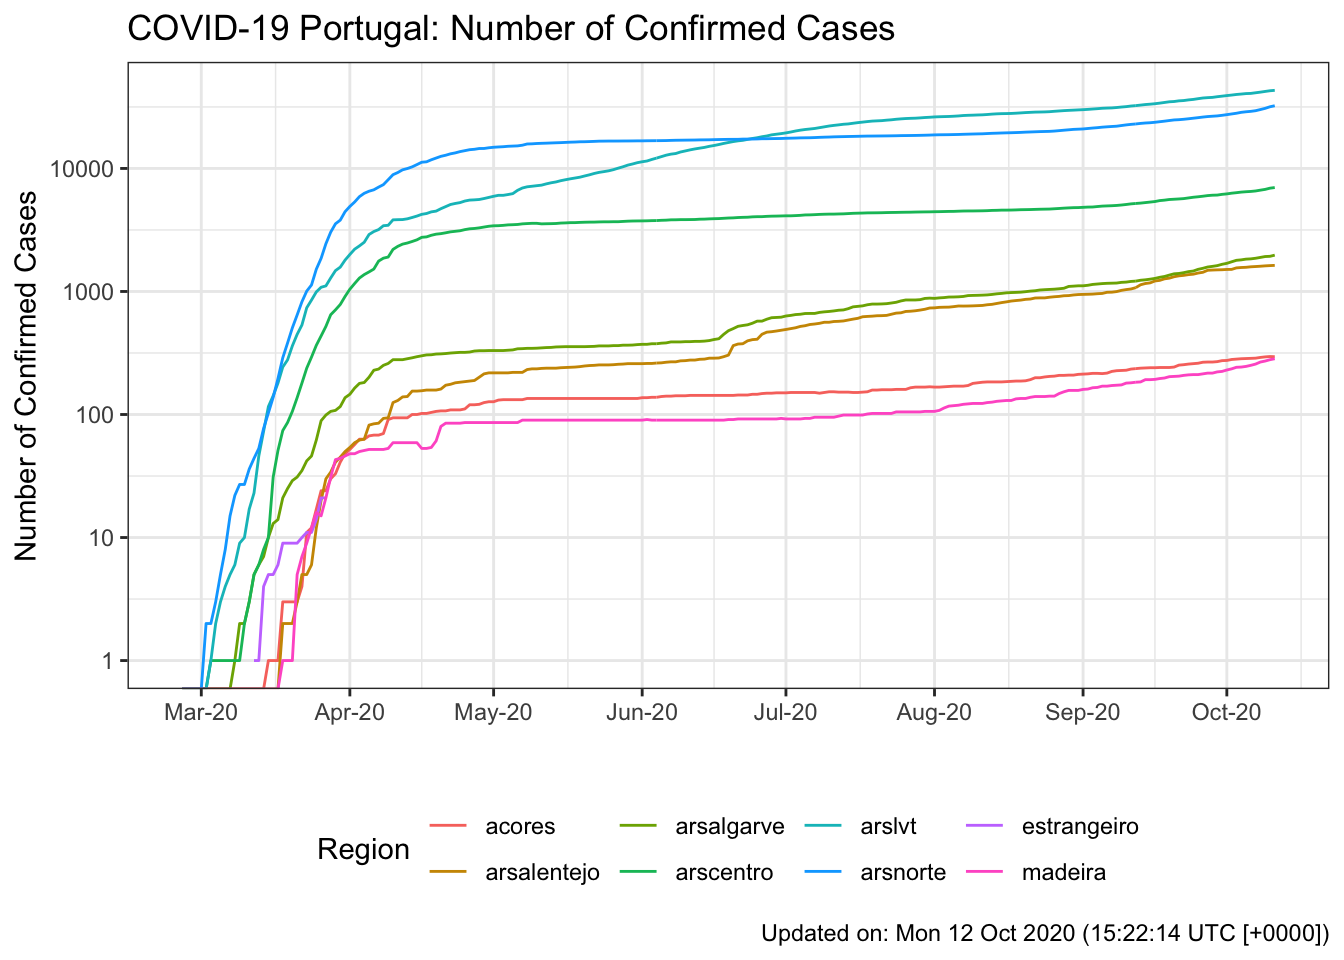
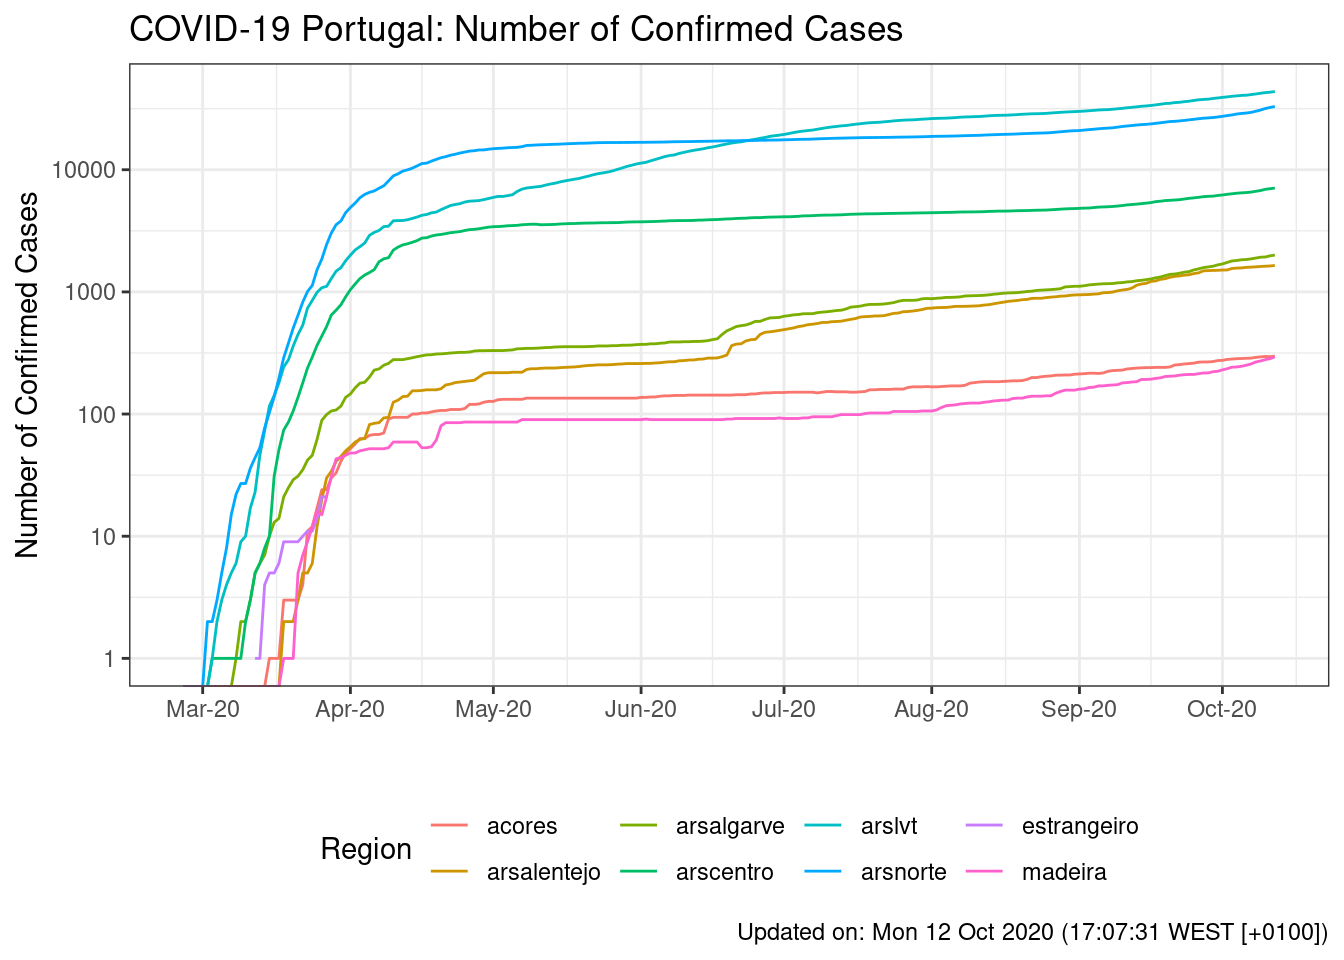
Manual update due to delay in data release

diff --git a/README.md b/README.md
@@ -4,9 +4,9 @@ README](https://github.com/CEAUL/Dados_COVID-19_PT/workflows/Render%20README/bad
 
 ## Daily Portuguese COVID-19 Data
 
-**Last updated: Mon 12 Oct 2020 (15:22:11 UTC \[+0000\])**
+**Last updated: Mon 12 Oct 2020 (17:07:30 WEST \[+0100\])**
 
-  - Data available from **26 Feb 2020** until **11 Oct 2020** (229
+  - Data available from **26 Feb 2020** until **12 Oct 2020** (230
     days).
 
 ### Download User Friendly Version
@@ -47,7 +47,6 @@ The original data were downloaded from an API provide by VOST
 
 |            Date | Cases\_7\_Day\_Mean |         Cases |        Active |    Recovered |     Deaths |
 | --------------: | ------------------: | ------------: | ------------: | -----------: | ---------: |
-| Fri 02 Oct 2020 |               747.0 |  77284 (+888) |  25942 (+460) | 49359 (+422) |  1983 (+6) |
 | Sat 03 Oct 2020 |               758.3 |  78247 (+963) |  26407 (+465) | 49845 (+486) | 1995 (+12) |
 | Sun 04 Oct 2020 |               792.4 |  79151 (+904) |  26939 (+532) | 50207 (+362) | 2005 (+10) |
 | Mon 05 Oct 2020 |               836.6 |  79885 (+734) |  27413 (+474) | 50454 (+247) | 2018 (+13) |
@@ -57,6 +56,7 @@ The original data were downloaded from an API provide by VOST
 | Fri 09 Oct 2020 |               949.1 | 83928 (+1394) |  29702 (+735) | 52164 (+647) | 2062 (+12) |
 | Sat 10 Oct 2020 |              1046.7 | 85574 (+1646) | 30704 (+1002) | 52803 (+639) |  2067 (+5) |
 | Sun 11 Oct 2020 |              1073.3 | 86664 (+1090) |  31397 (+693) | 53187 (+384) | 2080 (+13) |
+| Mon 12 Oct 2020 |              1146.9 | 87913 (+1249) |  32321 (+924) | 53498 (+311) | 2094 (+14) |
 
 Change from previous day in brackets.
 
@@ -81,19 +81,19 @@ CVPT <- fread(here("data", "covid19pt_DSSG_Long.csv"))
 # Looking at the data:
 tail(CVPT)
 ##          data   origVars   origType other symptoms sex ageGrpLower ageGrpUpper
-## 1: 2020-10-06 vigilancia vigilancia                All                        
-## 2: 2020-10-07 vigilancia vigilancia                All                        
-## 3: 2020-10-08 vigilancia vigilancia                All                        
-## 4: 2020-10-09 vigilancia vigilancia                All                        
-## 5: 2020-10-10 vigilancia vigilancia                All                        
-## 6: 2020-10-11 vigilancia vigilancia                All                        
+## 1: 2020-10-07 vigilancia vigilancia                All                        
+## 2: 2020-10-08 vigilancia vigilancia                All                        
+## 3: 2020-10-09 vigilancia vigilancia                All                        
+## 4: 2020-10-10 vigilancia vigilancia                All                        
+## 5: 2020-10-11 vigilancia vigilancia                All                        
+## 6: 2020-10-12 vigilancia vigilancia                All                        
 ##    ageGrp   region value valueUnits
-## 1:        Portugal 46437      Count
-## 2:        Portugal 46023      Count
-## 3:        Portugal 46182      Count
-## 4:        Portugal 47721      Count
-## 5:        Portugal 47602      Count
-## 6:        Portugal 48413      Count
+## 1:        Portugal 46023      Count
+## 2:        Portugal 46182      Count
+## 3:        Portugal 47721      Count
+## 4:        Portugal 47602      Count
+## 5:        Portugal 48413      Count
+## 6:        Portugal 48844      Count
 
 # Order data by original variable name and date.
 setkeyv(CVPT, c("origVars", "data"))
@@ -160,7 +160,7 @@ CV[origType=="confirmados" & ageGrp=="" & region!="Portugal"] %>%
     caption = paste0("Updated on: ", format(Sys.time(), "%a %d %b %Y (%H:%M:%S %Z [%z])")),
     colour = "Region")
 ## Warning: Transformation introduced infinite values in continuous y-axis
-## Warning: Removed 213 row(s) containing missing values (geom_path).
+## Warning: Removed 214 row(s) containing missing values (geom_path).
 ```
 
 <img src="README_figs/README-casesbyRegion-1.png" width="672" />
